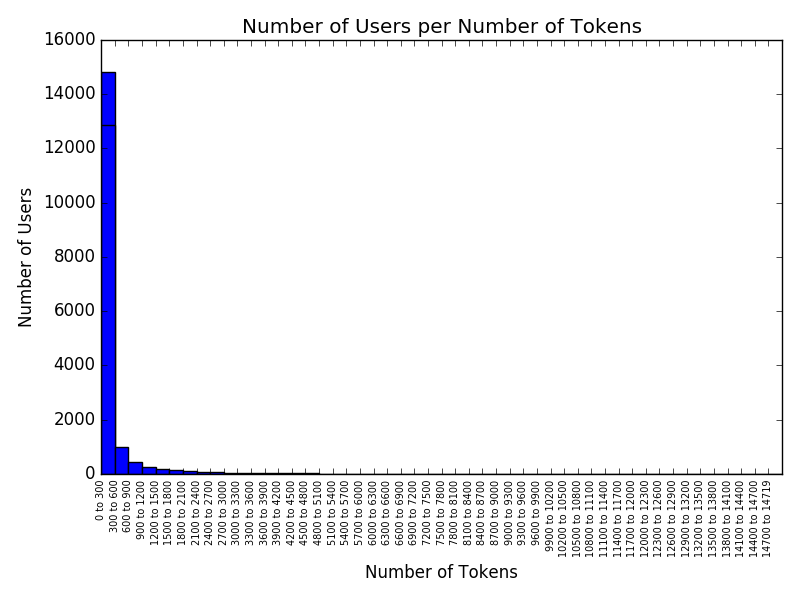
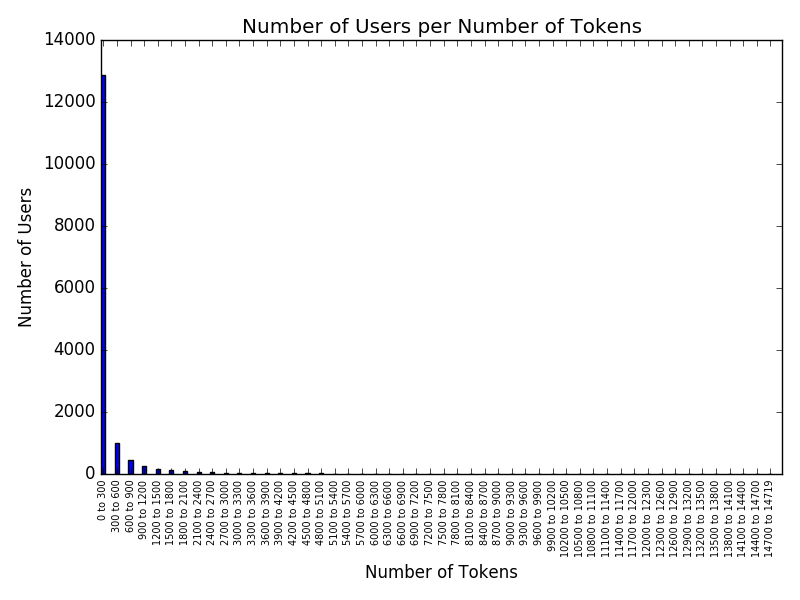
another plot

Changed region(s): [[0.0625, 0.12, 0.9688, 0.93], [0.0625, 0.06, 0.0938, 0.09]]

diff --git a/get_stats.py b/get_stats.py
@@ -82,27 +82,41 @@ data = pickle.load(open( '/home/dpappas/scripts_dict.p', "rb" ) )
 # plt.savefig('users_per_lines_number.png')
 
 
+# print('')
+# N = 0
+# ys = []
+# labels = []
+# stats = get_token_stats(data)
+# for i in range(0, max(stats.keys()), 300):
+#     if(i==2700):
+#         too = max(stats.keys())
+#         s = sum([ stats[m] for m in stats.keys() if(m>i and m<=too)])
+#         print(i,too,s)
+#         labels.append(str(i)+' to '+str(too))
+#         ys.append(s)
+#         N+=1
+#         break
+#     else:
+#         too = min(i+300, max(stats.keys()))
+#         s = sum([ stats[m] for m in stats.keys() if(m>i and m<=too)])
+#         print(i,too,s)
+#         labels.append(str(i)+' to '+str(too))
+#         ys.append(s)
+#         N+=1
+
+
 print('')
 N = 0
 ys = []
 labels = []
 stats = get_token_stats(data)
 for i in range(0, max(stats.keys()), 300):
-    if(i==2700):
-        too = max(stats.keys())
-        s = sum([ stats[m] for m in stats.keys() if(m>i and m<=too)])
-        print(i,too,s)
-        labels.append(str(i)+' to '+str(too))
-        ys.append(s)
-        N+=1
-        break
-    else:
-        too = min(i+300, max(stats.keys()))
-        s = sum([ stats[m] for m in stats.keys() if(m>i and m<=too)])
-        print(i,too,s)
-        labels.append(str(i)+' to '+str(too))
-        ys.append(s)
-        N+=1
+    too = min(i+300, max(stats.keys()))
+    s = sum([ stats[m] for m in stats.keys() if(m>i and m<=too)])
+    print(i,too,s)
+    labels.append(str(i)+' to '+str(too))
+    ys.append(s)
+    N+=1
 
 ind = np.arange(N)
 width = 0.3
@@ -112,7 +126,7 @@ plt.xlabel('Number of Tokens')
 plt.title('Number of Users per Number of Tokens')
 plt.xticks(ind + width/2, labels, rotation='vertical', fontsize=7)
 # plt.show()
-plt.savefig('users_per_tokens_number_2.png')
+plt.savefig('users_per_tokens_number.png')
 
 
 # len(data)
